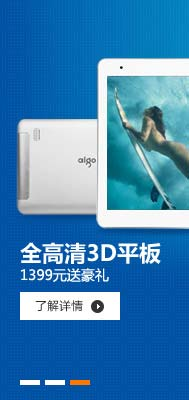
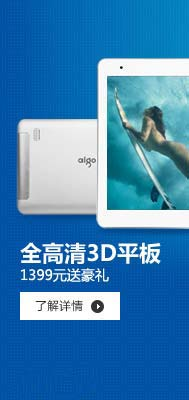
0714

Changed region(s): [[0.0794, 0.93, 0.4762, 0.99]]

diff --git a/my-project/页面/电商网站实践/index.html b/my-project/页面/电商网站实践/index.html
@@ -37,23 +37,23 @@
 				<div class="allgood_list">
 				<dl class="list_item">
 					<dt><a href="#" class="b">手机 </a><a href="#" class="b">数码 </a><a href="#" class="aLink">合约机</a></dt>
-					<dd><a href="#">荣耀3X </a><a href="#">单反 </a><a href="#">智能设备 </a></dd>
+					<dd><a class="f12" href="#">荣耀3X </a><a class="f12" href="#">单反 </a><a class="f12" href="#">智能设备 </a></dd>
 				</dl>
 				<dl class="list_item xuanzhong">
 					<dt><a href="#" class="b">手机 </a><a href="#" class="b">数码 </a><a href="#" class="aLink">合约机</a></dt>
-					<dd><a href="#">荣耀3X </a><a href="#">单反 </a><a href="#">智能设备 </a></dd>
+					<dd><a class="f12" href="#">荣耀3X </a><a class="f12" href="#">单反 </a><a class="f12" href="#">智能设备 </a></dd>
 				</dl>
 				<dl class="list_item">
 					<dt><a href="#" class="b">手机 </a><a href="#" class="b">数码 </a><a href="#" class="aLink">合约机</a></dt>
-					<dd><a href="#">荣耀3X </a><a href="#">单反 </a><a href="#">智能设备 </a></dd>
-				</dl>
+					<dd><a class="f12" href="#">荣耀3X </a><a class="f12" href="#">单反 </a><a class="f12" href="#">智能设备 </a></dd>
+					</dl>
 				<dl class="list_item">
 					<dt><a href="#" class="b">手机 </a><a href="#" class="b">数码 </a><a href="#" class="aLink">合约机</a></dt>
-					<dd><a href="#">荣耀3X </a><a href="#">单反 </a><a href="#">智能设备 </a></dd>
-				</dl>
+					<dd><a class="f12" href="#">荣耀3X </a><a class="f12" href="#">单反 </a><a class="f12" href="#">智能设备 </a></dd>
+					</dl>
 				<dl class="list_item list_item_lastOne">
 					<dt><a href="#" class="b">手机 </a><a href="#" class="b">数码 </a><a href="#" class="aLink">合约机</a></dt>
-					<dd><a href="#">荣耀3X </a><a href="#">单反 </a><a href="#">智能设备 </a></dd>
+					<dd><a class="f12" href="#">荣耀3X </a><a class="f12" href="#">单反 </a><a class="f12" href="#">智能设备 </a></dd>
 				</dl>
 				</div>
 				<div class="rightBox">
@@ -107,7 +107,16 @@
 			<div class="content_box_title"><p class="p1">家用电脑</p><a href=""><p class="p2">更多>> </p></a></div>
 			<div class="content_box_body clearfix">
 				<div class="content_box_body_jiaodiantu">
-					<img src="img/box1焦点图.jpg" alt="">
+					<ul class="nav">
+						<li class="off on"></li>
+						<li class="off"></li>
+						<li class="off"></li>
+					</ul>
+					<div class="imgs">
+						<img class="img1" src="img/box1焦点图.jpg" alt="">
+						<img class="img2" src="img/box1焦点图_2.jpg" alt="">
+						<img class="img" src="img/box1焦点图_3.jpg" alt="">
+					</div>
 				</div>
 				<ul class="content_box_body_list le clearfix">
 						<li class="B">
@@ -117,7 +126,7 @@
 							</div>
 							<div class="box_2"><img src="img/sonder79——62.jpg" alt="" class="img_2_style1">
 								<p class="p_3_style1 font12">NFC技术一碰轻松<br>配对！接触屏幕</p>
-								<p class="p_4_style1 font16">149.00</p>
+								<p class="p_4_style2 font16">149.00</p>
 							</div>
 						</li>
 						<li class="B">
@@ -203,22 +212,22 @@
 		</ul>
 	</div>
 <script>
-	// window.onload=function () {
-	// 	mov();
-	// }
-	// function mov() {
-	// 	var li=document.getElementBy('')
-	// 	for (var a = li.length - 1; a >= 0; a--) {
-	// 		li[a].onmouseover=function () {
-	// 			// this.className="active";
-	// 			this.className="active";
-	// 		}
-	// 		li[a].onmouseout=function () {
-	// 			this.className="";
-	// 		}
+	window.onload=function () {
+		
+	}
+	function mov() {
+		var li=document.getElementBy('')
+		for (var a = li.length - 1; a >= 0; a--) {
+			li[a].onmouseover=function () {
+				// this.className="active";
+				this.className="active";
+			}
+			li[a].onmouseout=function () {
+				this.className="";
+			}
 
-	// 	}
-	// }
+		}
+	}
 </script>
 </body>
 </html>

diff --git a/my-project/页面/电商网站实践/style/main.css b/my-project/页面/电商网站实践/style/main.css
@@ -5,6 +5,7 @@
 .font16{font: normal 16px/16px "微软雅黑";}
 .font14{font: normal 14px/14px "微软雅黑";}
 .font12{font: normal 12px/18px "新宋体";}
+.f12{font: normal 12px/12px "宋体";color: #c2d9f8; }
 .tac{text-align: center;}
 
 /*margin*/
@@ -37,22 +38,22 @@ text-indent: 40px; width: 87px;border-right: solid 1px #000;}
 
 /*商品分类列表默认*/
 .allgood_list{background-color: #4593fd;}
-.allgood_list .b{font-size: 14px  "微软雅黑";}
-.list_item a{color: #fff;}
-.allgood_list dt{font:normal 14px/14px "微软雅黑";margin-bottom: 7px;background: url(../img/jiantou.gif) right center no-repeat;}
-.allgood_list dd{font:normal 12px/12px "微软雅黑"; }
-.list_item{padding:14px 10px;border-bottom: 1px solid #3487f2;border-top: 1px solid #5aa1fe;}
-.list_item_lastOne{padding-bottom: 24px;}
-.list_item .aLink{width: 48px;height: 14px;display: inline-block;background: url(../img/aLink.gif) left center no-repeat;text-align: center;text-decoration: underline;}
+.allgood_list .b{font-size: normal 14px/14px  "微软雅黑";color: #ffffff;}
+.allgood_list dt{font:normal 14px/14px "微软雅黑";margin-bottom: 6px;background: url(../img/jiantou.gif) right center no-repeat;}
+.allgood_list dd{height: 12px;}
+.list_item{padding:13px 10px;border-bottom: 1px solid #3487f2;border-top: 1px solid #5aa1fe;width: 167px;height: 35px;}
+.list_item_lastOne{padding-bottom: 25px;}
+.list_item .aLink{color: #fff;width: 46px;height: 18px;display: inline-block;margin-left: 11px;background: url(../img/aLink.png) 0px 0px no-repeat;text-decoration: underline;font: normal 12px/18px "新宋体";vertical-align: top;text-align: center;}
 .nav li{float: left;width: 100px;height: 35px;}
 .nav a{color: #fff;display: inline-block; margin-top: 7.5px;margin-left:  29.5px;}
 .nav .active{background-color: #4593fd;}
 
 /*商品列表选中*/
 .xuanzhong{background-color: #fff;border-left: 1px solid #4593fd;}
+.xuanzhong .b{color: #000 !important;}
+.xuanzhong .f12{color: #000;}
 .xuanzhong dt{background: none;}
-.xuanzhong a{color: #000;}
-.xuanzhong .aLink{color: #fff;text-decoration: none;}
+.xuanzhong .aLink{color: #fff !important;text-decoration: none;}
 /*弹出的列表*/
 .rightBox{position: absolute;left: 189px;top: 35px;width: 570px;border: 1px solid #dddddd;display: none;}
 .right_item {margin-top: 16px;border-bottom: 1px solid #e5e5e5;margin-left: 18px;margin-right: 20px;padding-bottom: 12px;}
@@ -70,7 +71,13 @@ text-indent: 40px; width: 87px;border-right: solid 1px #000;}
 .content_box_title{padding-left: 57px;padding-right: 21px;height: 75px;background: url(../img/icon_1.png)0 15px no-repeat;}
 .content_box_title .p1{font: normal 24px/75px "微软雅黑";display: inline-block;}
 .content_box_title .p2{font: normal 12px/75px "新宋体";float: right;}
-.content_box_body_jiaodiantu{width: 189px;height: 400px;float: left;}
+.content_box_body_jiaodiantu{width: 189px;height: 400px;float: left;position: relative;/*overflow: hidden;*/}
+.content_box_body_jiaodiantu .nav{position: absolute;left: 18px;bottom: 15px}
+.content_box_body_jiaodiantu .off{width: 20px;height: 5px;background-color: #fff;margin-right: 5px;}
+.content_box_body_jiaodiantu .on{background-color: #ff7700 !important;}
+.content_box_body_jiaodiantu .imgs{width: 600px;}
+.content_box_body_jiaodiantu .img2{left: -22px;z-index: 22;}
+.content_box_body{width: 1002px;}
 .content_box_body .B{float: left;}
 .content_box_body_list{border-bottom: 3px solid #ff7201;}
 .content_box_body_list .box_1{width: 201px;height: 280px;border:1px solid #e5e5e5;border-left: none; }
